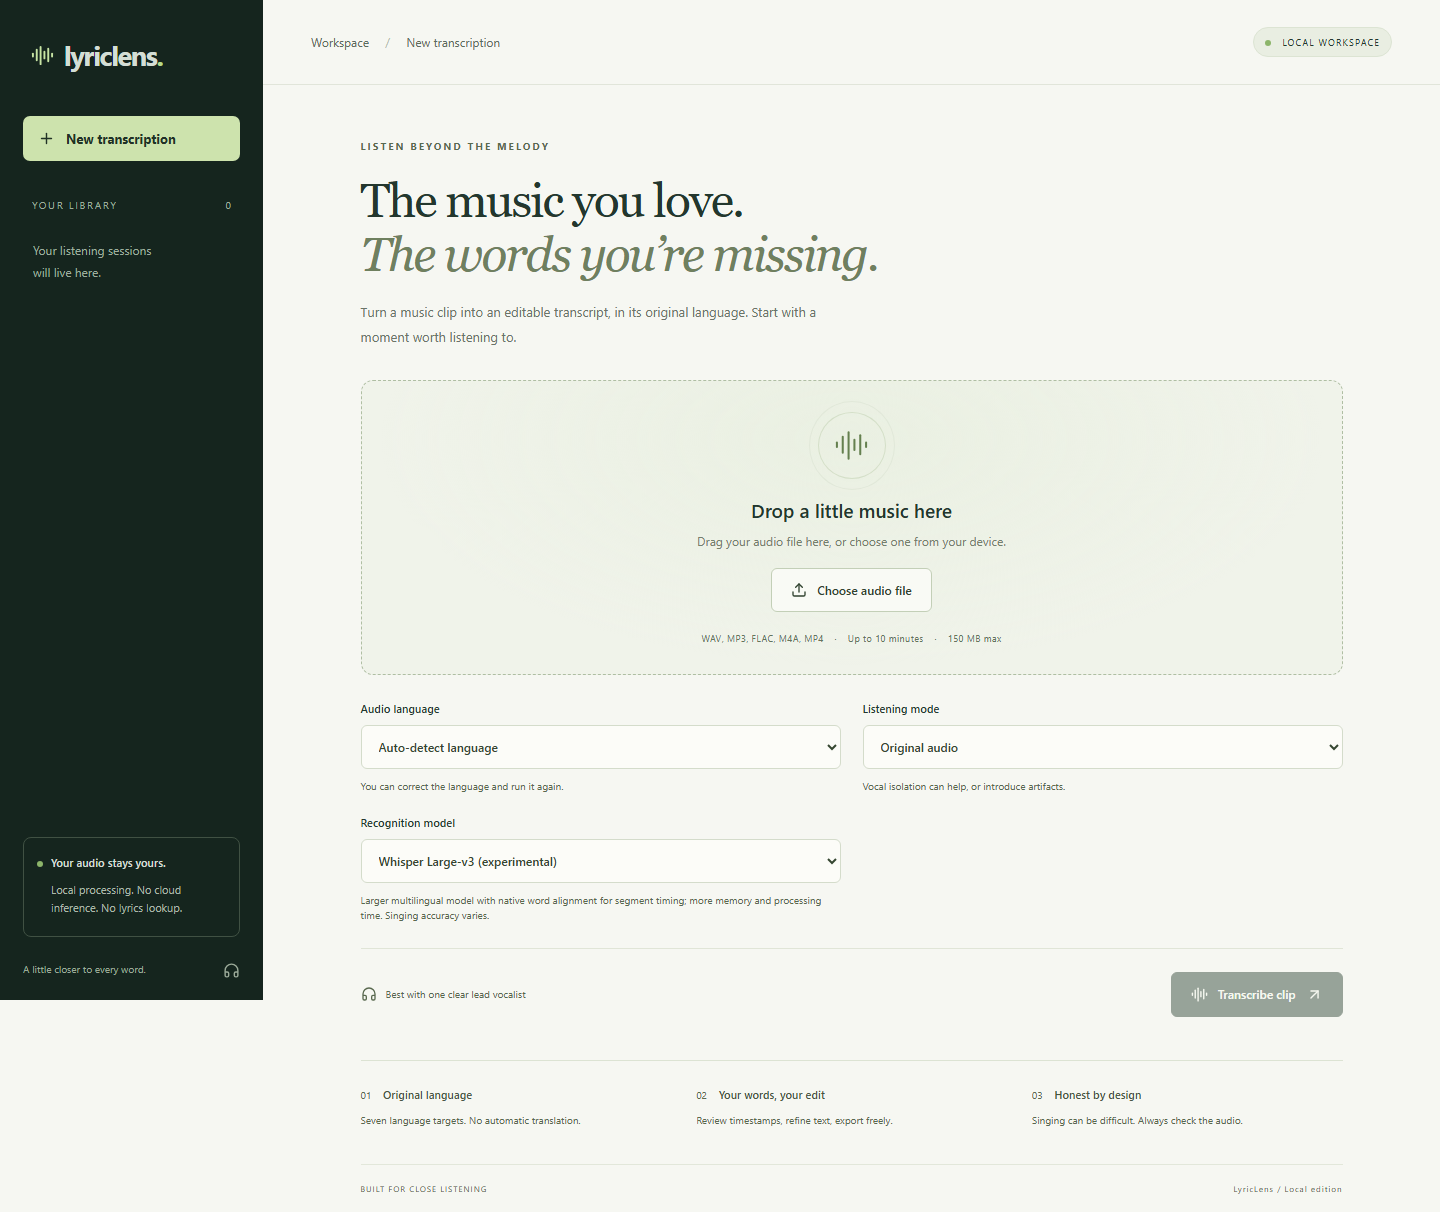
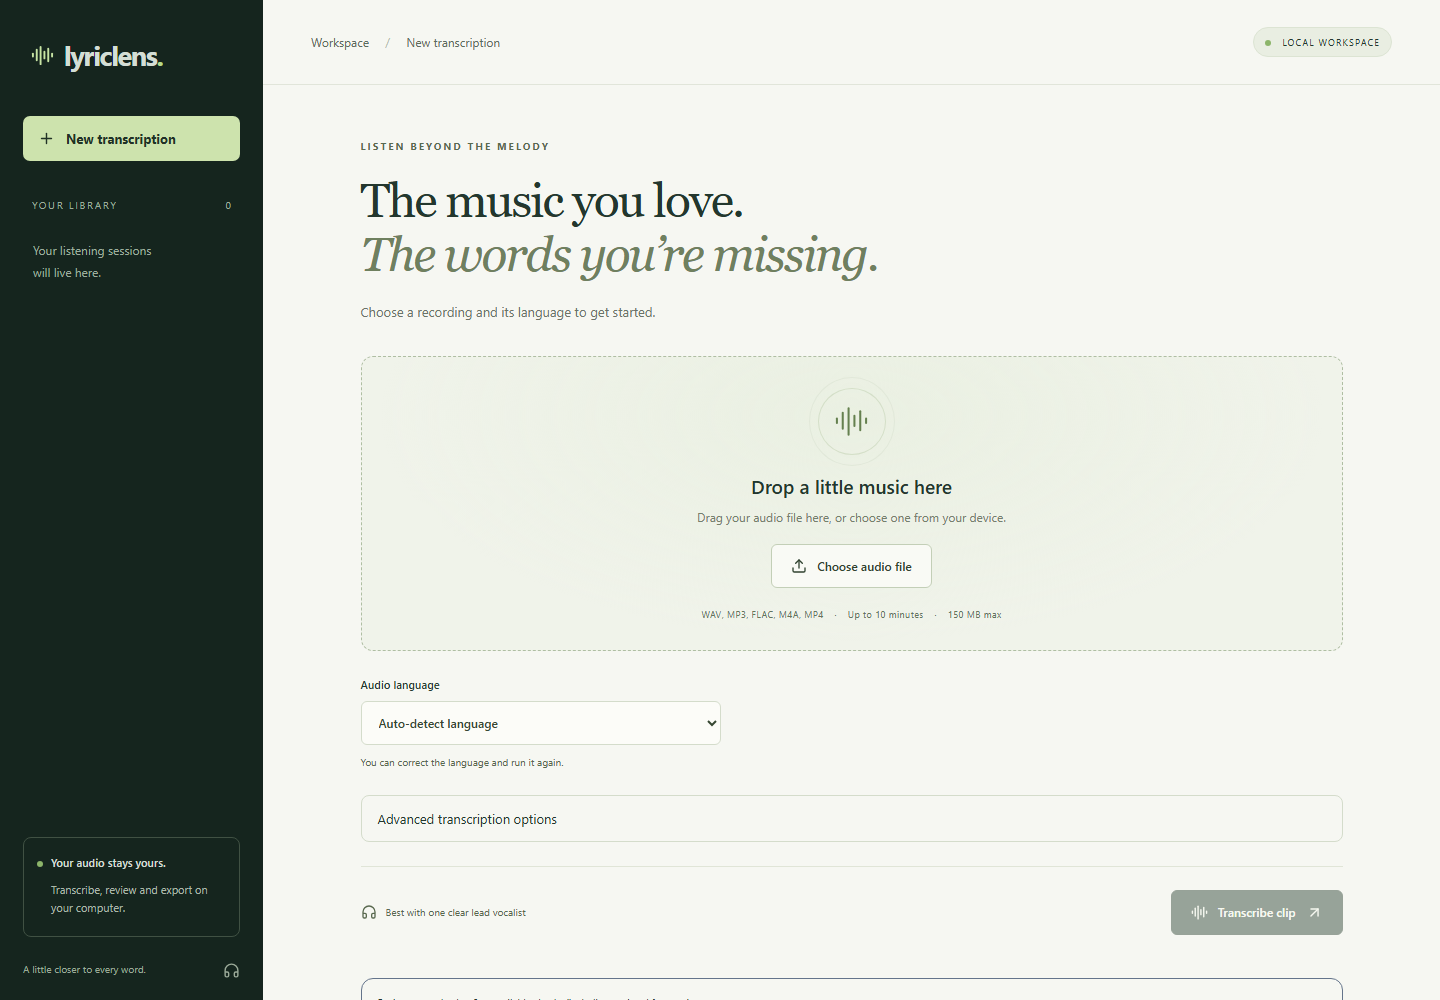
docs(project): refresh overview screenshot and delivery verification

diff --git a/README.md b/README.md
@@ -2,49 +2,47 @@
 
 Turn music into editable transcripts, locally. Upload a recording, compare recognition with and without vocal separation, review timestamps, and export the result.
 
-![LyricLens upload workspace with language, listening mode and recognition model controls](lyriclens-app/docs/images/workspace.png)
+![LyricLens upload workspace with language selection and advanced transcription options](lyriclens-app/docs/images/workspace.png)
 
 ## Features
 
 - **Seven language choices:** Korean, Japanese, Mandarin Chinese, English, Spanish, Portuguese and French, plus automatic whole-clip detection.
-- **Local recognition:** Whisper Small, experimental Small with native alignment, or experimental Large-v3, with optional Demucs vocal separation and side-by-side results.
-- **Review and export:** waveform seeking, undo/redo, keyboard shortcuts, segment repeat, playback speed, Unicode editing, passage retranscription, and TXT, JSON or SRT export.
+- **Local recognition:** Whisper Small, experimental Small with native alignment, or experimental Large-v3, with optional Demucs vocal separation and side-by-side results. Model and isolation controls are under **Advanced transcription options**.
+- **Review and export:** waveform seeking, undo/redo, keyboard shortcuts, segment repeat, playback speed, Unicode editing, passage retranscription, a navigable review-suggestion list, and TXT, JSON, SRT or LRC export.
 - **Optional local translation:** choose a target language, review translated segments beside the saved source, and export the translation separately.
-- **Persistent history:** saved jobs, cancellation and deletion, with audio stored locally.
+- **Persistent history:** saved titles, search, status/language filters, cancellation and deletion, with audio stored locally. Send up to 20 recordings to the existing local queue from the batch uploader.
+- **Bring your lyrics:** import TXT or LRC, preview changes, preserve existing passage times or start manual synchronization from evenly distributed lines.
 - **Workspace tools:** resume unfinished tasks, inspect stage progress, check local setup and clear generated cache selectively. See [recovery and review tools](lyriclens-app/docs/RELIABILITY.md).
 - **Editing and backup:** recover browser drafts, search lyrics, split/merge segments, export bilingual TXT/SRT and restore per-job backups. See the [editing guide](lyriclens-app/docs/EDITING.md).
+- **Multilingual review:** assign languages to saved passages, retranscribe them and compare differences between recognition routes. See the [multilingual guide](lyriclens-app/docs/MULTILINGUAL.md).
 
 **Formats:** WAV, MP3, FLAC, M4A and MP4. Default limits: **10 minutes of audio** and **150 MiB per upload**. MP4 processing uses the first audio track and ignores video frames.
 
 ## Quick start
 
-Install **Python 3.11**, **Node.js** and **FFmpeg**. From the repository root, in PowerShell:
+On Windows, open a terminal in the repository folder and run:
 
 ```powershell
-cd lyriclens-app
-py -3.11 -m venv .venv
-.\.venv\Scripts\python.exe -m pip install -e './backend[inference,tools]'
-.\.venv\Scripts\python.exe -m lyriclens.models download
-.\.venv\Scripts\python.exe -m uvicorn lyriclens.api:app --host 127.0.0.1 --port 8011
-```
-
-In another terminal, starting at the repository root:
-
-```powershell
-cd lyriclens-app/frontend
-npm.cmd ci
-npm.cmd run dev
-```
-
-Open **http://127.0.0.1:5181**. Model preparation requires an explicit download; transcription runs locally afterward. This setup enables Small with direct recognition. For Large-v3, vocal separation, GPU setup, Docker or Bash commands, see the [setup guide](lyriclens-app/docs/SETUP.md).
-
-After installing dependencies, start both services on Windows with one command from the repository root:
-
-```powershell
+.\setup.cmd -InstallPrerequisites
 .\start.cmd
 ```
 
-The launcher reuses healthy services, checks the API connection and writes logs to `.runtime`. Use `.\start.cmd -Gpu` to start a new backend with CUDA/float16 after preparing the [GPU dependencies](lyriclens-app/docs/SETUP.md#models-and-explicit-preparation).
+Setup prepares Python 3.11, Node.js, dependencies, bundled FFmpeg and the Small model (about 500 MB on first download). Windows Package Manager is used for missing prerequisites. Open **http://127.0.0.1:5181/**, choose a recording and its language, then click **Transcribe clip**.
+
+On later visits, run only `.\start.cmd`. If Python and Node are already installed, `.\setup.cmd` handles the application setup. Use `.\setup.cmd -CheckOnly` to inspect readiness without changes. See [Quick start](lyriclens-app/docs/QUICKSTART.md) for the full user flow and [Setup](lyriclens-app/docs/SETUP.md) for GPU, manual installation, Docker and other platforms.
+
+The launcher reuses healthy services, checks the API connection and writes logs to `.runtime`. Use `.\start.cmd -Gpu` to start a new backend with CUDA/float16 after preparing the [GPU dependencies](lyriclens-app/docs/SETUP.md#models-and-explicit-preparation). Vocal separation, Large-v3 and translation have separate preparation steps in the setup guides.
+
+## Recognition options
+
+| Option | Use |
+|---|---|
+| Whisper Small | Default model for local transcription, with a smaller download and memory footprint |
+| Small + alignment (experimental) | Refines segment timing using the prepared Small weights |
+| Large-v3 (experimental) | Larger model for quality comparisons; requires a separate download and more memory |
+| Vocal separation | Isolates vocals before recognition; compare both routes to see which works better for a recording |
+
+If an unaligned result has invalid timestamps, recognition retries once with native alignment using the same model. Both attempts are preserved in raw output. See [models and dependencies](lyriclens-app/docs/MODELS.md) for details.
 
 ## Common problems
 
@@ -52,35 +50,45 @@ The launcher reuses healthy services, checks the API connection and writes logs 
 |---|---|
 | Browser shows `ERR_CONNECTION_REFUSED` at port 5181 | The frontend may not be running. After initial setup, run `.\start.cmd` from the repository root to start both services. If startup fails, inspect the log named by the launcher under `.runtime`. |
 | Server starts, but processing is disabled | A model or FFmpeg may be missing. Check `/api/models` and follow the [model preparation instructions](lyriclens-app/docs/SETUP.md#models-and-explicit-preparation). Downloads must be run explicitly. |
-| FFmpeg is unavailable | Run `ffmpeg -version` in the same terminal. Reopen the terminal after installation, or set `LYRICLENS_FFMPEG` to the executable's absolute path. |
-| PowerShell blocks `npm.ps1` | Use `npm.cmd ci` and `npm.cmd run dev`, as shown above. No execution-policy change is needed. |
-| Inference or vocal separation dependencies fail to install on Python 3.14 | Use the Python 3.11 environment from Quick start. Native inference on Python 3.14 is not verified. |
-| GPU processing fails with a CUDA/cuDNN error or missing `cublas64_12.dll` | Follow the [Windows GPU setup](lyriclens-app/docs/SETUP.md#models-and-explicit-preparation), install the `cuda-windows` extra and restart the backend. Alternatively, explicitly select CPU/int8. |
+| FFmpeg is unavailable | The guided setup installs bundled FFmpeg. For a manual installation, check `ffmpeg -version` or set `LYRICLENS_FFMPEG` to its executable's absolute path. |
+| PowerShell blocks `npm.ps1` | Use `npm.cmd ci` and `npm.cmd run dev` for manual frontend setup. No execution-policy change is needed. |
+| Dependencies fail to install on Python 3.14 | Use Python 3.11 through the guided setup or the [manual instructions](lyriclens-app/docs/SETUP.md#native-setup). Native inference on Python 3.14 is not verified. |
+| GPU processing fails with a CUDA/cuDNN error or missing `cublas64_12.dll` | Follow the [Windows GPU setup](lyriclens-app/docs/SETUP.md#models-and-explicit-preparation), install the `cuda-windows` extra and restart the backend, or select CPU/int8. |
 | Transcript is empty, inaccurate or in the wrong language | Select the language manually, compare original audio with vocal separation if prepared, and review/edit the result. Singing and instrumental passages can still produce incorrect words. |
-| Processing fails with invalid timestamps | Try **Whisper Small + alignment (experimental)** under **Recognition model**. See [timing recovery](lyriclens-app/docs/SETUP.md#optional-alignment-with-the-configured-model) for how retries work. |
+| Processing fails with invalid timestamps | Try **Whisper Small + alignment (experimental)** in **Advanced transcription options**. See [timing recovery](lyriclens-app/docs/SETUP.md#optional-alignment-with-the-configured-model) if the problem persists. |
 | Export does not include recent edits | Click **Save edits** before exporting. Original TXT exports intentionally use the original recognition result. |
 
 For additional symptoms, including failed model downloads, interrupted jobs and separation errors, see the [troubleshooting guide](lyriclens-app/docs/TROUBLESHOOTING.md).
 
-## Limitations
+## Quality and limitations
 
-Singing, accompaniment and overlapping voices can produce incorrect words or hallucinations; timestamps are approximate. Review every transcript. Existing singing results come from small development samples, and Japanese accuracy remains unscored. See the [singing results](lyriclens-app/docs/SINGING.md).
+Singing, accompaniment and overlapping voices can produce incorrect words; timestamps are approximate. Review each transcript. The scored development sample contains 12 clips in six languages, mostly solo singing, with references pending human review. Japanese word accuracy remains unscored, and representative full-song and duet coverage is still needed.
+
+In the shared 11-clip comparison, original-audio CER was 8.19% for Small and 4.20% for Large-v3. A separate 36-run synthetic robustness diagnostic found that Large-v3 handled added noise better but performed worse on long repeated audio. These development results vary by condition; see [singing measurements](lyriclens-app/docs/SINGING.md) and the [quality plan](lyriclens-app/docs/QUALITY.md) for methods, coverage and results.
+
+The benchmark tools audit coverage, keep development and final groups separate, and compare models on matching inputs. Experimental [fine-tuning](lyriclens-app/docs/FINETUNING.md) uses reviewed recordings with documented permission; the [training sources guide](lyriclens-app/docs/TRAINING_SOURCES.md) covers selection and licensing.
 
 ## Documentation
 
 | Guide | Contents |
 |---|---|
-| [Setup and operations](lyriclens-app/docs/SETUP.md) | Installation, model preparation, GPU, Docker and test commands |
-| [Translation](lyriclens-app/docs/TRANSLATION.md) | Optional local model, translated edits and separate exports |
+| [Quick start](lyriclens-app/docs/QUICKSTART.md) | Install, transcribe, review and export |
+| [Documentation index](lyriclens-app/docs/README.md) | User guides, setup and research records |
+| [Setup and operations](lyriclens-app/docs/SETUP.md) | Manual installation, model preparation, GPU and Docker |
+| [Translation](lyriclens-app/docs/TRANSLATION.md) | Optional local model, translation editing and exports |
 | [Multilingual review](lyriclens-app/docs/MULTILINGUAL.md) | Language labels, passage retranscription and transcript comparison |
-| [Benchmark](lyriclens-app/docs/BENCHMARK.md) | Reference review and reproducible model comparisons |
-| [Fine-tuning](lyriclens-app/docs/FINETUNING.md) | Experimental model adaptation with reviewed recordings |
-| [Training sources](lyriclens-app/docs/TRAINING_SOURCES.md) | Data selection, permissions and licensing |
-| [Architecture](lyriclens-app/docs/ARCHITECTURE.md) | Backend, frontend, job processing and API |
-| [Models](lyriclens-app/docs/MODELS.md) | Profiles, dependencies and third-party attribution |
-| [Evaluation](lyriclens-app/docs/EVALUATION.md) | Metrics, references and evaluation protocol |
-| [Verification](lyriclens-app/docs/VERIFICATION.md) | Executed checks and remaining limitations |
+| [Editing and backups](lyriclens-app/docs/EDITING.md) | Drafts, search, split/merge, bilingual exports and restore |
+| [Review and recovery](lyriclens-app/docs/RELIABILITY.md) | Playback, progress, interrupted work and storage |
 | [Troubleshooting](lyriclens-app/docs/TROUBLESHOOTING.md) | Common setup and runtime problems |
+| [Developer guide](lyriclens-app/docs/CONTRIBUTING.md) | Module layout and local checks |
+| [Architecture and API](lyriclens-app/docs/ARCHITECTURE.md) | Backend, frontend, processing and persistence |
+| [Models](lyriclens-app/docs/MODELS.md) | Profiles, dependencies and attribution |
+| [Quality plan](lyriclens-app/docs/QUALITY.md) | Coverage, reference review and robustness results |
+| [Benchmark](lyriclens-app/docs/BENCHMARK.md) | Reviewed references, frozen protocols and paired comparisons |
+| [Evaluation](lyriclens-app/docs/EVALUATION.md) | Metrics, normalization, timing and memory |
+| [Fine-tuning](lyriclens-app/docs/FINETUNING.md) | Experimental training and candidate evaluation |
+| [Training sources](lyriclens-app/docs/TRAINING_SOURCES.md) | Data selection, permissions and licensing |
+| [Verification](lyriclens-app/docs/VERIFICATION.md) | Executed checks and remaining limitations |
 
 ## License
 

diff --git a/lyriclens-app/docs/VERIFICATION.md b/lyriclens-app/docs/VERIFICATION.md
@@ -1,5 +1,25 @@
 # Delivery verification
 
+## Lyric imports, library organization and batch upload, 2026-10-21
+
+The backend suite passed with **132 tests and four skips**. Rename API coverage checks Unicode titles, whitespace trimming, persistence in library responses, unchanged filenames/hashes, length rejection, title reset and missing jobs. Frontend formatting and the TypeScript/Vite production build passed.
+
+The isolated Chromium onboarding and editor workflows passed using temporary data at ports 8013/5183. Added checks cover reading TXT files, preserving passage times, evenly distributed manual timing, LRC end markers, out-of-bounds rejection, import undo, title search and status/language filters, and title preservation through backup restore. Batch checks simulate a full queue on the second upload, continue without repeating the accepted first recording, and verify mobile overflow. Existing recovery, waveform and repeat-playback browser workflows also passed, including mobile and axe audits. Model readiness is mocked for onboarding and audio fixtures are owned silence; these checks do not measure recognition quality or validate clean-machine installation.
+
+## Review navigation and LRC, 2026-10-21
+
+The backend suite passed with **131 tests and four skips**. Added LRC checks cover edited Unicode text through the export API, attachment naming, centisecond rollover, multiline passages and empty output. Frontend formatting and the TypeScript/Vite production build passed.
+
+The isolated Chromium editor workflow passed on temporary data at ports 8013/5183 using the existing browser environment. Added checks cover disabled current-transcript export while dirty, navigating a repeated-text suggestion to focus its editor, and clearing the suggestion after correction. Existing draft, split/merge, backup, mobile and accessibility checks also passed. No models were downloaded or evaluated; these changes do not establish improved recognition accuracy.
+
+## Quality workflow and module split, 2026-10-20
+
+The backend suite passed with **130 tests and four skips** on the local Windows environment. TypeScript/Vite production build and frontend formatting passed. The isolated browser runner passed upload/onboarding, editor/draft/backup, recovery/workspace and playback workflows, including mobile overflow checks and the existing accessibility audits.
+
+The new Windows setup checker reports the prepared local environment as ready. An automated empty-directory check confirms that `-CheckOnly` reports missing setup without creating an environment. Automatic prerequisite installation still needs validation on a clean Windows installation.
+
+Small and Large-v3 completed **36 direct-route robustness executions** on 18 derived cases. [The quality plan](QUALITY.md) records the paired condition results and remaining real-recording coverage. Reference review and independent final recordings are pending. The documentation link check passed for 98 local links across 19 Markdown files.
+
 ## Training-source review
 
 Updated 2026-10-16: 95 backend tests passed; four were skipped in the application environment. New checks cover rejecting restrictive/unknown declared licenses, pending rights, additional source agreements, missing component permissions, changed documentary evidence, evidence paths outside the manifest directory and non-destructive original-recording queue preparation. Existing fine-tuning tests now use explicitly synthetic rights-evidence fixtures.
